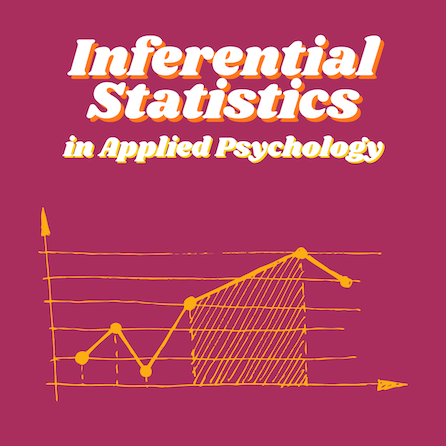
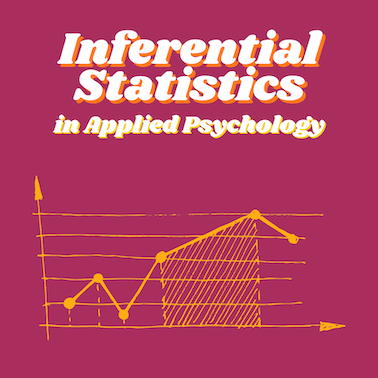
even smaller course images

diff --git a/docs/index.html b/docs/index.html
@@ -275,8 +275,10 @@ $(document).ready(function () {
 
 <p><link href="css/style.css" rel="stylesheet"></link></p>
 <p align="center">
-<img src="https://mtruelovehill.github.io/images/PRMimg.png" width="40%" />
-<img src="https://mtruelovehill.github.io/images/ISAPimg.png" width="40%" />
+<img
+src="https://mtruelovehill.github.io/images/PRMimg_smaller.png" /><!-- -->
+<img src="https://mtruelovehill.github.io/images/PRMimg_smaller.png" width="40%" />
+<img src="https://mtruelovehill.github.io/images/ISAPimg_smaller.png" width="40%" />
 </p>
 <div id="course-description" class="section level3">
 <h3>Course Description</h3>
